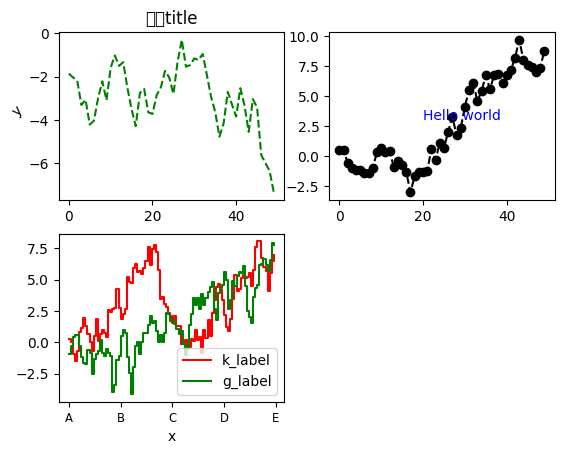
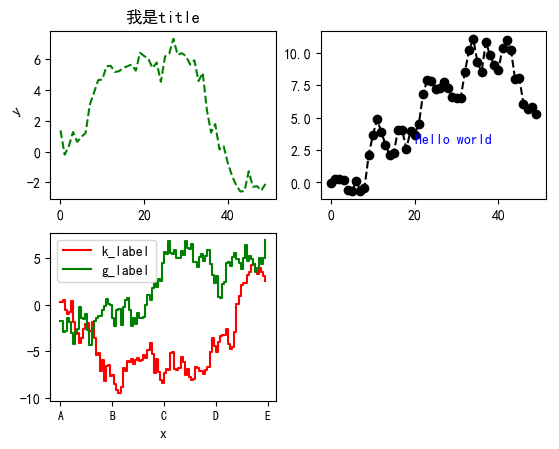
fadfadfadf

Changed region(s): [[0.0304, 0.0, 1.0, 0.9978], [0.0, 0.2183, 0.0304, 0.2494]]

diff --git a/learn_matplotlib/test.py b/learn_matplotlib/test.py
@@ -5,11 +5,18 @@
 @time = 2017/1/31 11:28
 @annotation = '' 
 """
-# from pylab import mpl
-# # print mpl.rcParams
-# # mpl.rcParams['font.sans-serif'] = u'SimHei'  # 指定默认字体
-# # mpl.rcParams['font.family'] = u'SimHei'  # 指定默认字体
-# # mpl.rcParams['axes.unicode_minus'] = False  # 解决保存图像是负号'-'显示为方块的问题
+from matplotlib import rcParams
+
+rcParams['font.family'] = u'sans-serif'
+rcParams['font.sans-serif'] = [u'Microsoft Yahei',
+                               u'Heiti SC',
+                               u'Heiti TC',
+                               u'STHeiti',
+                               u'WenQuanYi Zen Hei',
+                               u'WenQuanYi Micro Hei',
+                               u"文泉驿微米黑",
+                               u'SimHei', ] + rcParams[u'font.sans-serif']
+rcParams['axes.unicode_minus'] = False  # 解决保存图像是负号'-'显示为方块的问题
 
 import matplotlib.pyplot as plt
 from numpy.random import randn
@@ -38,10 +45,10 @@ ax3.set_xlabel(u"x")
 plt.savefig("figure.png", bbox_inches="tight")
 
 # 流
-from io import StringIO
-
-buffer = StringIO()
-plt.savefig(buffer)
-plot_data = buffer.getvalue()
+# from io import StringIO
+#
+# buffer = StringIO()
+# plt.savefig(buffer)
+# plot_data = buffer.getvalue()
 
 plt.show()

diff --git a/learn_meachine/分类.py b/learn_meachine/分类.py
@@ -6,7 +6,7 @@
 @annotation = ''
 """
 import numpy as np
-from sklearn import datasets, linear_model
+from sklearn import datasets
 
 iris = datasets.load_iris()
 iris_X = iris.data
@@ -15,7 +15,7 @@ iris_y = iris.target
 # 随机排列，随机分割数据
 # np.random.seed(0)
 indices = np.random.permutation(len(iris_X))
-
+# train_test_split()
 iris_X_train = iris_X[indices[:-10]]
 iris_y_train = iris_y[indices[:-10]]
 iris_X_test = iris_X[indices[-10:]]
@@ -40,9 +40,9 @@ fit 拟合x,y的train
 """
 knn.fit(iris_X_train, iris_y_train)
 print(knn.predict(iris_X_test))
+print(knn.score(iris_X, iris_y))
+print(knn.score(iris_X_test, iris_y_test))
 
-print(iris_y_test)
 
-
-logistic = linear_model.LogisticRegression(C=1e5)
-logistic.fit(iris_X_train, iris_y_train)
+# logistic = linear_model.LogisticRegression(C=1e5)
+# logistic.fit(iris_X_train, iris_y_train)

diff --git a/leaern_pandas/多index.py b/leaern_pandas/多index.py
@@ -1,0 +1,26 @@
+#!/usr/bin/env python
+# -*- coding: utf-8 -*-
+"""
+@author = 'wyx'
+@time = 2017/6/16 21:25
+@annotation = ''
+"""
+import pandas as pd
+
+df = pd.DataFrame({'id': [1, 2, 3, 4],
+                   'treatment': ['A', 'A', 'B', 'B'],
+                   'gender': ['F', 'M', 'F', 'M'],
+                   'response': [5, 3, 8, 9],
+                   })
+# print df
+
+multi_index = df.set_index(['treatment', 'gender'])
+print multi_index
+
+# print multi_index.index.names
+
+a = multi_index.unstack(level="gender")
+b = multi_index.unstack(level=1)
+# print a == b
+print a
+# print a.index.names, a.columns

diff --git a/leaern_pandas/melt.py b/leaern_pandas/melt.py
@@ -1,0 +1,22 @@
+#!/usr/bin/env python
+# -*- coding: utf-8 -*-
+"""
+@author = 'wyx'
+@time = 2017/6/16 14:59
+@annotation = ''
+"""
+import pandas as pd
+
+df = pd.DataFrame({'A': {0: 'a', 1: 'b', 2: 'c'},
+                   'B': {0: 1, 1: 3, 2: 5},
+                   'C': {0: 2, 1: 4, 2: 6}})
+print df
+"""列属性重复"""
+df_melt = pd.melt(frame=df, id_vars=['A'], value_vars=['B', 'C'], var_name='type', value_name='value')
+print df_melt
+"""行属性重复"""
+df_pivot = df_melt.pivot(index="A", columns="type", values="value")
+print df_pivot
+
+print df_pivot.columns
+print df_pivot.info()

diff --git a/learn_meachine/eda.py b/learn_meachine/eda.py
@@ -1,0 +1,23 @@
+#!/usr/bin/env python
+# -*- coding: utf-8 -*-
+"""
+@author = 'wyx'
+@time = 2017/6/17 22:29
+@annotation = ''
+"""
+import matplotlib.pyplot as plt
+import pandas as pd
+from sklearn import datasets
+
+plt.style.use('ggplot')
+iris = datasets.load_iris()
+
+X = iris.data
+y = iris.target
+df = pd.DataFrame(X, columns=iris.feature_names)
+print(df.head())
+
+# pd.scatter_matrix(df,  figsize=[8, 8], s=150, marker='D')
+pd.scatter_matrix(df, c=y, figsize=[8, 8], s=150, marker='D')
+
+plt.show()

diff --git a/learn_matplotlib/2d.py b/learn_matplotlib/2d.py
@@ -1,0 +1,27 @@
+#!/usr/bin/env python
+# -*- coding: utf-8 -*-
+"""
+@author = 'wyx'
+@time = 2017/6/17 09:25
+@annotation = ''
+"""
+import matplotlib.pyplot as plt
+import numpy as np
+# import seaborn as sns
+
+# sns.set()
+u = np.linspace(-2, 2, 65)
+v = np.linspace(-1, 1, 33)
+# print u, v
+X, Y = np.meshgrid(u, v)
+# print X, Y
+Z = X ** 2 / 25 + Y ** 2 / 4
+
+print Z
+# plt.set_cmap('gray')
+
+# plt.pcolor(Z)
+# plt.colorbar()
+
+plt.contour(Z)
+plt.show()

diff --git a/learn_matplotlib/fit.py b/learn_matplotlib/fit.py
@@ -1,0 +1,22 @@
+#!/usr/bin/env python
+# -*- coding: utf-8 -*-
+"""
+@author = 'wyx'
+@time = 2017/6/17 12:23
+@annotation = ''
+"""
+import matplotlib.pyplot as plt
+import numpy as np
+
+x = np.array([0.0, 1.0, 2.0, 3.0, 4.0, 5.0])
+y = np.array([0.0, 0.8, 0.9, 0.1, -0.8, -1.0])
+
+z = np.polyfit(x, y, 30)
+print z
+p = np.poly1d(z)
+print p
+xp = np.linspace(-2, 6, 100)
+
+plt.plot(x, y, '.', xp, p(xp), "-")
+
+plt.show()

diff --git a/learn_matplotlib/test1.py b/learn_matplotlib/test1.py
@@ -1,0 +1,23 @@
+#!/usr/bin/env python
+# -*- coding: utf-8 -*-
+"""
+@author = 'wyx'
+@time = 2017/6/15 16:22
+@annotation = ''
+"""
+import matplotlib.pyplot as plt
+
+year = [1950, 1970, 1990, 2010]
+pop = [2.519, 3.692, 5.263, 6.972]
+
+# line plot
+plt.plot(year, pop)
+# 散点图
+plt.scatter(year, pop)
+
+
+plt.hist()
+# plt.show()
+
+
+print help(plt.hist)

diff --git a/learn_numpy/二维数组.py b/learn_numpy/二维数组.py
@@ -67,3 +67,5 @@ if False:
     print a.sum()
     print a.sum(axis=0)
     print a.sum(axis=1)
+if True:
+    print a[:, 0]
